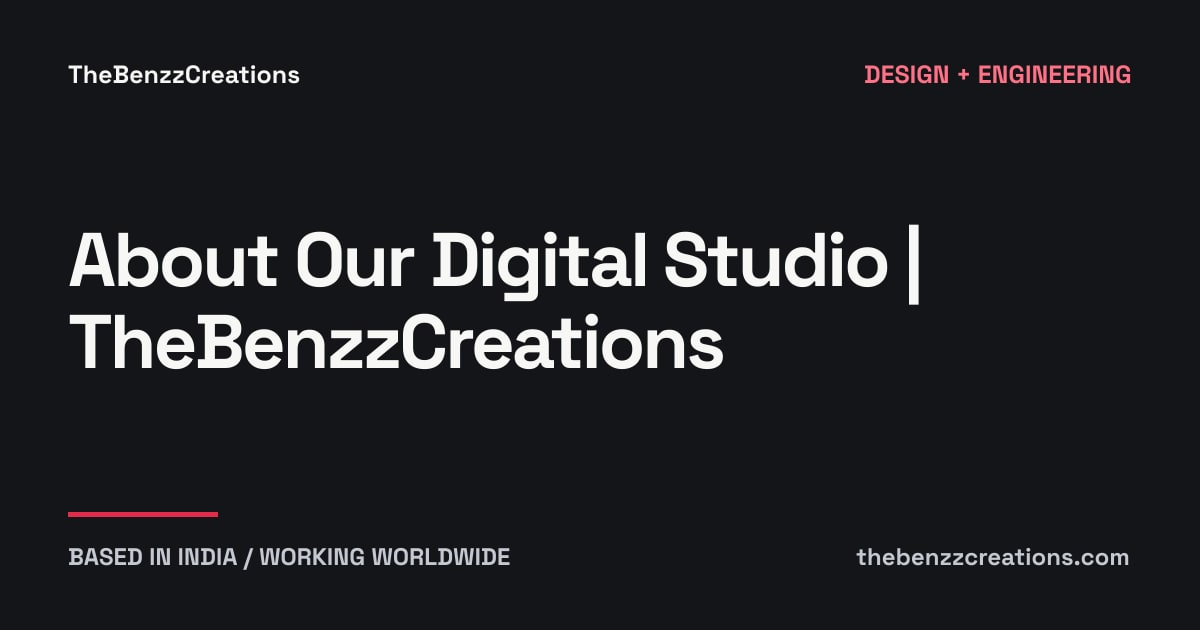
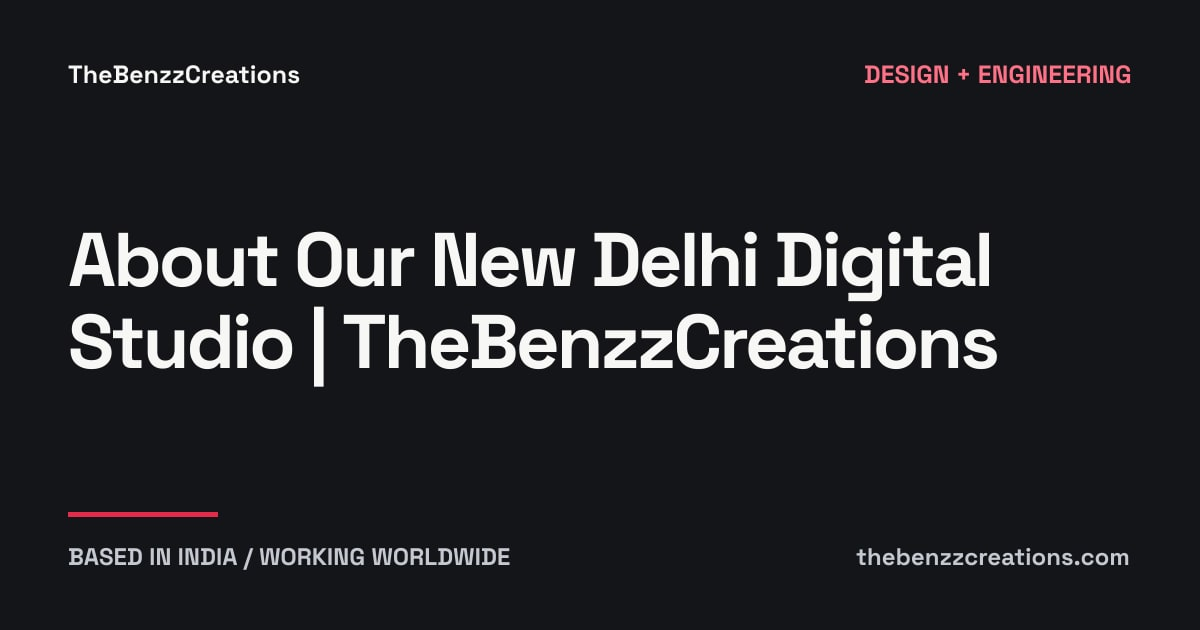
Centralize site facts and strengthen canonical crawl metadata

Changed region(s): [[0.0617, 0.3619, 0.8325, 0.6333]]

diff --git a/lib/seo-content.ts b/lib/seo-content.ts
@@ -1,6 +1,7 @@
 import { resourcePages } from "./resources";
-export const SITE_ORIGIN = "https://www.thebenzzcreations.com";
-export const CONTENT_UPDATED = "2026-11-07";
+import { site } from "../src/lib/site";
+export const SITE_ORIGIN = site.url;
+export const CONTENT_UPDATED = site.updated;
 export const PRIMARY_MARKETS = [
   "India",
   "United States",
@@ -8,15 +9,7 @@ export const PRIMARY_MARKETS = [
   "United Arab Emirates",
   "Canada",
 ] as const;
-export const BUSINESS = {
-  name: "TheBenzzCreations",
-  email: "thebenzzcreationsofficial@gmail.com",
-  telephone: "+919899788325",
-  location: "New Delhi, India",
-  // Add only owner-confirmed profiles for the studio itself, not personal or project pages.
-  sameAs: ["https://www.instagram.com/thebenzzcreations/"],
-  address: { "@type": "PostalAddress", addressLocality: "New Delhi", addressRegion: "Delhi", addressCountry: "IN" },
-};
+export const BUSINESS = site;
 
 export type Service = {
   slug: string;
@@ -42,9 +35,9 @@ export const services: Service[] = [
   {
     slug: "website-development",
     name: "Website Development",
-    title: "Website Development Worldwide | TheBenzzCreations",
+    title: "Website Development for Businesses | TheBenzzCreations",
     description:
-      "Custom website development for India, the US, UK, UAE and Canada. Responsive websites and web apps with accessible design, technical SEO and clear enquiry journeys.",
+      "Custom websites for India, the US, UK, UAE and Canada. Plan responsive websites and web apps with accessible design, technical SEO and clear enquiry journeys.",
     eyebrow: "Custom websites / Worldwide collaboration",
     intro:
       "A business website should explain your offer, earn attention and make the next step obvious. We design and develop custom websites for businesses worldwide, with a focus on India, the United States, United Kingdom, United Arab Emirates and Canada.",
@@ -144,7 +137,7 @@ export const services: Service[] = [
     name: "Custom Software Development",
     title: "Custom Software Development Worldwide | TheBenzzCreations",
     description:
-      "Custom software development for teams worldwide, including India, the US, UK, UAE and Canada. Portals, dashboards and backend systems built around your workflows.",
+      "Custom software for teams in India, the US, UK, UAE and Canada. Plan portals, dashboards and backend systems around your business workflows and integrations.",
     eyebrow: "Business software / Connected operations",
     intro:
       "When spreadsheets and disconnected tools create extra work, custom software can bring the process together. We develop business systems for international teams around their roles, information and everyday tasks.",
@@ -304,7 +297,7 @@ export const services: Service[] = [
   {
     slug: "ui-ux-design",
     name: "UI/UX Design",
-    title: "UI/UX Design for Global Teams | TheBenzzCreations",
+    title: "UI/UX Design for Worldwide Teams | TheBenzzCreations",
     description:
       "UI/UX design for teams in India, the US, UK, UAE and Canada. Clear website and app journeys, wireframes, prototypes and interfaces ready for development.",
     eyebrow: "User journeys / Interface systems",
@@ -410,7 +403,7 @@ export const projects = [
   {
     slug: "nsar-workshop",
     name: "NSAR Workshop",
-    title: "NSAR Workshop Website Project | TheBenzzCreations",
+    title: "NSAR Workshop Website Case Study | TheBenzzCreations",
     description:
       "Explore the NSAR Workshop website: an institutional event interface organising workshop information, applications and a clear route to essential details.",
     external: "https://www.nsar2026.org/",
@@ -519,14 +512,14 @@ export const corePages = [
   {
     path: "/work",
     key: "work",
-    title: "Website & UI Portfolio | TheBenzzCreations",
+    title: "Website & Interface Project Portfolio | TheBenzzCreations",
     description:
-      "Explore NSAR Workshop, SwiftPDF and a therapist website: published website and interface projects from TheBenzzCreations, New Delhi.",
+      "Explore NSAR Workshop, SwiftPDF and a therapist website: published website and interface projects from TheBenzzCreations, a studio in New Delhi, India.",
   },
   {
     path: "/privacy",
     key: "privacy",
-    title: "Privacy & Analytics Choices | TheBenzzCreations",
+    title: "Website Privacy & Analytics Choices | TheBenzzCreations",
     description:
       "How TheBenzzCreations handles project enquiries, optional analytics, consent preferences and information you share with our New Delhi studio.",
   },
@@ -534,9 +527,9 @@ export const corePages = [
 
 export const informationPages = [
   { path: "/pricing", key: "pricing", title: "Project Pricing & Custom Quotes | TheBenzzCreations", description: "Explore website, app and software project options from TheBenzzCreations, what determines a custom quote, and how to request an estimate without logging in." },
-  { path: "/about", key: "about", title: "About Our Digital Studio | TheBenzzCreations", description: "Meet TheBenzzCreations, an independent digital studio in New Delhi building websites, apps, software and digital experiences for businesses worldwide." },
-  { path: "/contact", key: "contact", title: "Contact Our Digital Studio | TheBenzzCreations", description: "Contact TheBenzzCreations in New Delhi by email or telephone to discuss your website, app, software, design or automation project and next steps." },
-  { path: "/terms", key: "terms", title: "Website Terms of Use | TheBenzzCreations", description: "Read the website terms for TheBenzzCreations, including portfolio information, external links, project enquiries and how individual proposals define project scope." },
+  { path: "/about", key: "about", title: "About Our New Delhi Digital Studio | TheBenzzCreations", description: "Meet TheBenzzCreations, an independent digital studio in New Delhi building websites, apps, software and digital experiences for businesses worldwide." },
+  { path: "/contact", key: "contact", title: "Contact Our New Delhi Digital Studio | TheBenzzCreations", description: "Contact TheBenzzCreations in New Delhi by email or telephone to discuss your website, app, software, design or automation project and next steps." },
+  { path: "/terms", key: "terms", title: "Website Information & Terms of Use | TheBenzzCreations", description: "Read TheBenzzCreations website terms: portfolio information, external links, project enquiries and how individual proposals define deliverables and project scope." },
 ];
 
 export const publicPages = [

diff --git a/lib/seo.ts b/lib/seo.ts
@@ -31,9 +31,10 @@ export type PageInfo = (typeof publicPages)[number];
 export function analyticsConfig() {
   // Public measurement ID verified in the existing live site's HTML. Empty override disables analytics.
   const candidate =
+    process.env.NEXT_PUBLIC_GA_ID ??
     process.env.NEXT_PUBLIC_GA_MEASUREMENT_ID ??
     process.env.GA4_MEASUREMENT_ID ??
-    "G-Q9JRF078F9";
+    "";
   return {
     measurementId: /^G-[A-Z0-9]{4,20}$/.test(candidate) ? candidate : "",
     consentVersion: 1,
@@ -179,7 +180,7 @@ export function renderHead(
     "8MsySZqeSGdkv-ve9SoSqPVqLD5NZ5vmL2MfO2t8LVI";
   return `<meta charset="utf-8"><meta name="viewport" content="width=device-width, initial-scale=1, viewport-fit=cover">
 <title>${escapeHtml(page.title)}</title><meta name="description" content="${escapeHtml(page.description)}">
-<link rel="canonical" href="${url}">${insights.some((article) => page.path === `/blog/${article.slug}`) ? `<link rel="alternate" type="text/markdown" href="${url}/index.md">` : ""}<meta name="robots" content="index,follow,max-image-preview:large,max-snippet:-1,max-video-preview:-1">
+<link rel="canonical" href="${url}"><link rel="alternate" hreflang="x-default" href="${url}"><link rel="alternate" type="application/rss+xml" title="TheBenzzCreations Blog" href="/feed.xml">${insights.some((article) => page.path === `/blog/${article.slug}`) ? `<link rel="alternate" type="text/markdown" href="${url}/index.md">` : ""}<meta name="robots" content="index,follow,max-image-preview:large,max-snippet:-1,max-video-preview:-1">
 <meta property="og:type" content="${article ? "article" : "website"}">${article ? `<meta property="article:published_time" content="${article.published}"><meta property="article:modified_time" content="${article.updated}"><meta property="article:section" content="${escapeHtml(article.category)}">` : ""}<meta property="og:site_name" content="TheBenzzCreations"><meta property="og:locale" content="en_IN"><meta property="og:url" content="${url}"><meta property="og:title" content="${escapeHtml(page.title)}"><meta property="og:description" content="${escapeHtml(page.description)}"><meta property="og:image" content="${image}"><meta property="og:image:secure_url" content="${image}"><meta property="og:image:type" content="image/jpeg"><meta property="og:image:width" content="1200"><meta property="og:image:height" content="630"><meta property="og:image:alt" content="${escapeHtml(page.title)}">
 <meta name="twitter:card" content="summary_large_image"><meta name="twitter:title" content="${escapeHtml(page.title)}"><meta name="twitter:description" content="${escapeHtml(page.description)}"><meta name="twitter:image" content="${image}"><meta name="twitter:image:alt" content="${escapeHtml(page.title)}"><meta name="theme-color" content="#141518">
 ${verification ? `<meta name="google-site-verification" content="${escapeHtml(verification)}">` : ""}
@@ -217,7 +218,7 @@ export async function renderHome() {
   let html = await readTemplate();
   const page = corePages[0];
   html = html
-    .replace('<html lang="en">', '<html lang="en" class="no-js">')
+    .replace(/<html lang="en(?:-IN)?">/, '<html lang="en-IN" class="no-js">')
     .replace(
       /<head>[\s\S]*?<\/head>/i,
       `<head>${renderHead(page, [["Home", "/"]], undefined, true)}</head>`,
@@ -284,7 +285,7 @@ export async function pageShell(
       .replace("</footer>", `${seoFooter()}</footer>`) || "";
   const guides = service ? insights.filter((item) => item.service === service.slug) : [];
   const reading = guides.length ? `<section class="wrap seo-content"><h2>Plan before you build</h2><div class="seo-service-grid">${guides.map((item) => `<article class="seo-card"><h3><a href="/blog/${item.slug}">${escapeHtml(item.h1)}</a></h3><p>${escapeHtml(item.description)}</p></article>`).join("")}</div></section>` : "";
-  return `<!DOCTYPE html><html lang="en" class="no-js"><head>${renderHead(page, crumbs, service)}</head><body id="top" class="seo-page"><a class="skip" href="#main">Skip to content</a>${header}<main id="main" tabindex="-1"><div class="wrap">${breadcrumbs(crumbs)}</div>${content}${reading}</main>${footer}<script defer src="/reference/navigation.js"></script></body></html>`;
+  return `<!DOCTYPE html><html lang="en-IN" class="no-js"><head>${renderHead(page, crumbs, service)}</head><body id="top" class="seo-page"><a class="skip" href="#main">Skip to content</a>${header}<main id="main" tabindex="-1"><div class="wrap">${breadcrumbs(crumbs)}</div>${content}${reading}</main>${footer}<script defer src="/reference/navigation.js"></script></body></html>`;
 }
 
 function serviceCards(items: Service[]) {

diff --git a/lib/resources.ts b/lib/resources.ts
@@ -29,8 +29,8 @@ export const faqs: Faq[] = [
 
 const legacyInsights = [
   {
-    slug: "website-project-brief", key: "website-project-brief", title: "What to Prepare Before Hiring a Web Agency | TheBenzzCreations",
-    description: "Prepare a practical website brief: audience, user journeys, content, integrations, budget, acceptance criteria and launch responsibilities before requesting quotes.",
+    slug: "website-project-brief", key: "website-project-brief", title: "Prepare a Website Project Brief | TheBenzzCreations",
+    description: "Prepare a useful website brief with audience, user journeys, content, integrations, budget, acceptance criteria and launch responsibilities before requesting quotes.",
     h1: "What to prepare before hiring a website development agency",
     intro: "A useful brief explains the decisions a website must support. You do not need a finished technical specification, but clear inputs make scope and estimates easier to compare.",
     service: "website-development",
@@ -45,7 +45,7 @@ const legacyInsights = [
   },
   {
     slug: "custom-software-vs-off-the-shelf", key: "custom-software-vs-off-the-shelf", title: "Custom Software vs Off-the-Shelf Tools | TheBenzzCreations",
-    description: "Compare custom software with existing business tools using workflow fit, integration access, migration, total operating costs and long-term maintenance responsibilities.",
+    description: "Compare custom software and existing tools using workflow fit, integrations, migration, operating costs and long-term maintenance before choosing your approach.",
     h1: "Custom software vs off-the-shelf tools: how to decide",
     intro: "Start with the workflow that is failing, then compare ways to improve it. Building a new system is one option; configuring or connecting existing software may solve the problem with less ongoing responsibility.",
     service: "custom-software-development",
@@ -80,7 +80,7 @@ export const insights: EditorialArticle[] = [
 ];
 
 export const resourcePages = [
-  { path: "/faq", key: "faq", title: "Development & Project FAQs | TheBenzzCreations", description: "Answers about websites, mobile apps, software, e-commerce, AI integration, project estimates, support and working remotely with TheBenzzCreations worldwide." },
+  { path: "/faq", key: "faq", title: "Development, Pricing & Project FAQs | TheBenzzCreations", description: "Answers about websites, mobile apps, software, e-commerce, AI integration, project estimates, support and working remotely with TheBenzzCreations worldwide." },
   { path: "/global-services", key: "global-services", title: "International Development Services | TheBenzzCreations", description: "Work remotely with our New Delhi development studio from the US, UK, Canada, UAE, India or elsewhere. Plan scope, reviews, integrations and project handover." },
   { path: "/blog", key: "insights", title: "Business Technology & Development Guides | TheBenzzCreations", description: "Practical website, app, e-commerce and AI automation guides for business owners: compare platforms, plan budgets and choose the right systems before building." },
   ...insights.map((item) => ({ path: `/blog/${item.slug}`, key: item.key, title: item.title, description: item.description })),

diff --git a/lib/editorial-buying-guides.ts b/lib/editorial-buying-guides.ts
@@ -181,7 +181,7 @@ const guides: Guide[] = [
   },
   {
     slug: "choose-erp-implementation-partner",
-    title: "How to Choose an ERP Implementation Partner",
+    title: "How to Choose an ERP Implementation Partner in 2026",
     description: "Choose an ERP implementation partner using platform evidence, industry references, named staffing, migration rehearsals, rollout gates and support terms.",
     h1: "How can a business choose an ERP implementation partner for planning, migration, and rollout?",
     intro: "Choose the team that can demonstrate your business process, explain migration risks and stay accountable after go-live. Use the same evidence-based selection process for every candidate.",
@@ -372,7 +372,7 @@ const guides: Guide[] = [
   },
   {
     slug: "ui-ux-design-agencies-apps-ecommerce",
-    title: "UI/UX Design Agencies for Apps and E-Commerce",
+    title: "UI/UX Design Agencies for Apps and E-Commerce: Guide",
     description: "Compare UI/UX design partners by research, checkout and app journeys, accessibility, reusable components, usability testing and engineering handover.",
     h1: "Which UI/UX design agencies are best for customer-facing apps and e-commerce platforms?",
     intro: "The best design partner for your product should improve a real customer journey and leave the engineering team with clear, implementable decisions.",

diff --git a/next.config.ts b/next.config.ts
@@ -21,7 +21,7 @@ const nextConfig: NextConfig = {
         source: "/:path*",
         has: [{ type: "host", value: "thebenzzcreations.com" }],
         destination: `${origin}/:path*`,
-        permanent: true,
+        statusCode: 301,
       },
       ...(process.env.NODE_ENV === "production"
         ? [
@@ -36,7 +36,7 @@ const nextConfig: NextConfig = {
                 },
               ],
               destination: `${origin}/:path*`,
-              permanent: true,
+              statusCode: 301,
             },
           ]
         : []),
@@ -68,6 +68,7 @@ const nextConfig: NextConfig = {
       {
         source: "/:path*",
         headers: [
+          { key: "Strict-Transport-Security", value: "max-age=31536000" },
           { key: "X-Content-Type-Options", value: "nosniff" },
           { key: "Referrer-Policy", value: "strict-origin-when-cross-origin" },
           { key: "X-Frame-Options", value: "DENY" },

diff --git a/src/lib/site.ts b/src/lib/site.ts
@@ -1,0 +1,14 @@
+/** Public facts retained from the supplied site. Unknown facts stay unpublished. */
+export const site = {
+  name: "TheBenzzCreations",
+  url: "https://www.thebenzzcreations.com",
+  email: "thebenzzcreationsofficial@gmail.com",
+  telephone: "+919899788325",
+  location: "New Delhi, India",
+  sameAs: ["https://www.instagram.com/thebenzzcreations/"],
+  address: { "@type": "PostalAddress", addressLocality: "New Delhi", addressRegion: "Delhi", addressCountry: "IN" },
+  founder: null as null | { name: string; role: string; biography: string; image?: string },
+  bookingUrl: null as string | null,
+  markets: ["India", "United States", "United Kingdom", "United Arab Emirates", "Canada"],
+  updated: "2026-11-21",
+};

diff --git a/app/robots.ts b/app/robots.ts
@@ -2,7 +2,7 @@ import type { MetadataRoute } from "next";
 import { SITE_ORIGIN } from "@/lib/seo-content";
 export default function robots(): MetadataRoute.Robots {
   return {
-    rules: { userAgent: "*", allow: "/", disallow: "/api/", other: { "Content-Signal": "search=yes, ai-train=no" } },
+    rules: ["*", "Googlebot", "Bingbot", "GPTBot", "OAI-SearchBot", "ChatGPT-User", "ClaudeBot", "Claude-Web", "anthropic-ai", "PerplexityBot", "Google-Extended", "Applebot-Extended", "CCBot"].map(userAgent => ({ userAgent, allow: "/", disallow: ["/api/", "/mcp"] })),
     sitemap: SITE_ORIGIN + "/sitemap.xml",
     host: SITE_ORIGIN,
   };

diff --git a/app/sitemap.ts b/app/sitemap.ts
@@ -1,0 +1,9 @@
+import type { MetadataRoute } from "next";
+import { CONTENT_UPDATED, publicPages, SITE_ORIGIN } from "@/lib/seo-content";
+import { insights } from "@/lib/resources";
+export default function sitemap(): MetadataRoute.Sitemap {
+  return publicPages.map(page => ({
+    url: SITE_ORIGIN + page.path,
+    lastModified: insights.find(article => page.path === `/blog/${article.slug}`)?.updated || CONTENT_UPDATED,
+  }));
+}
